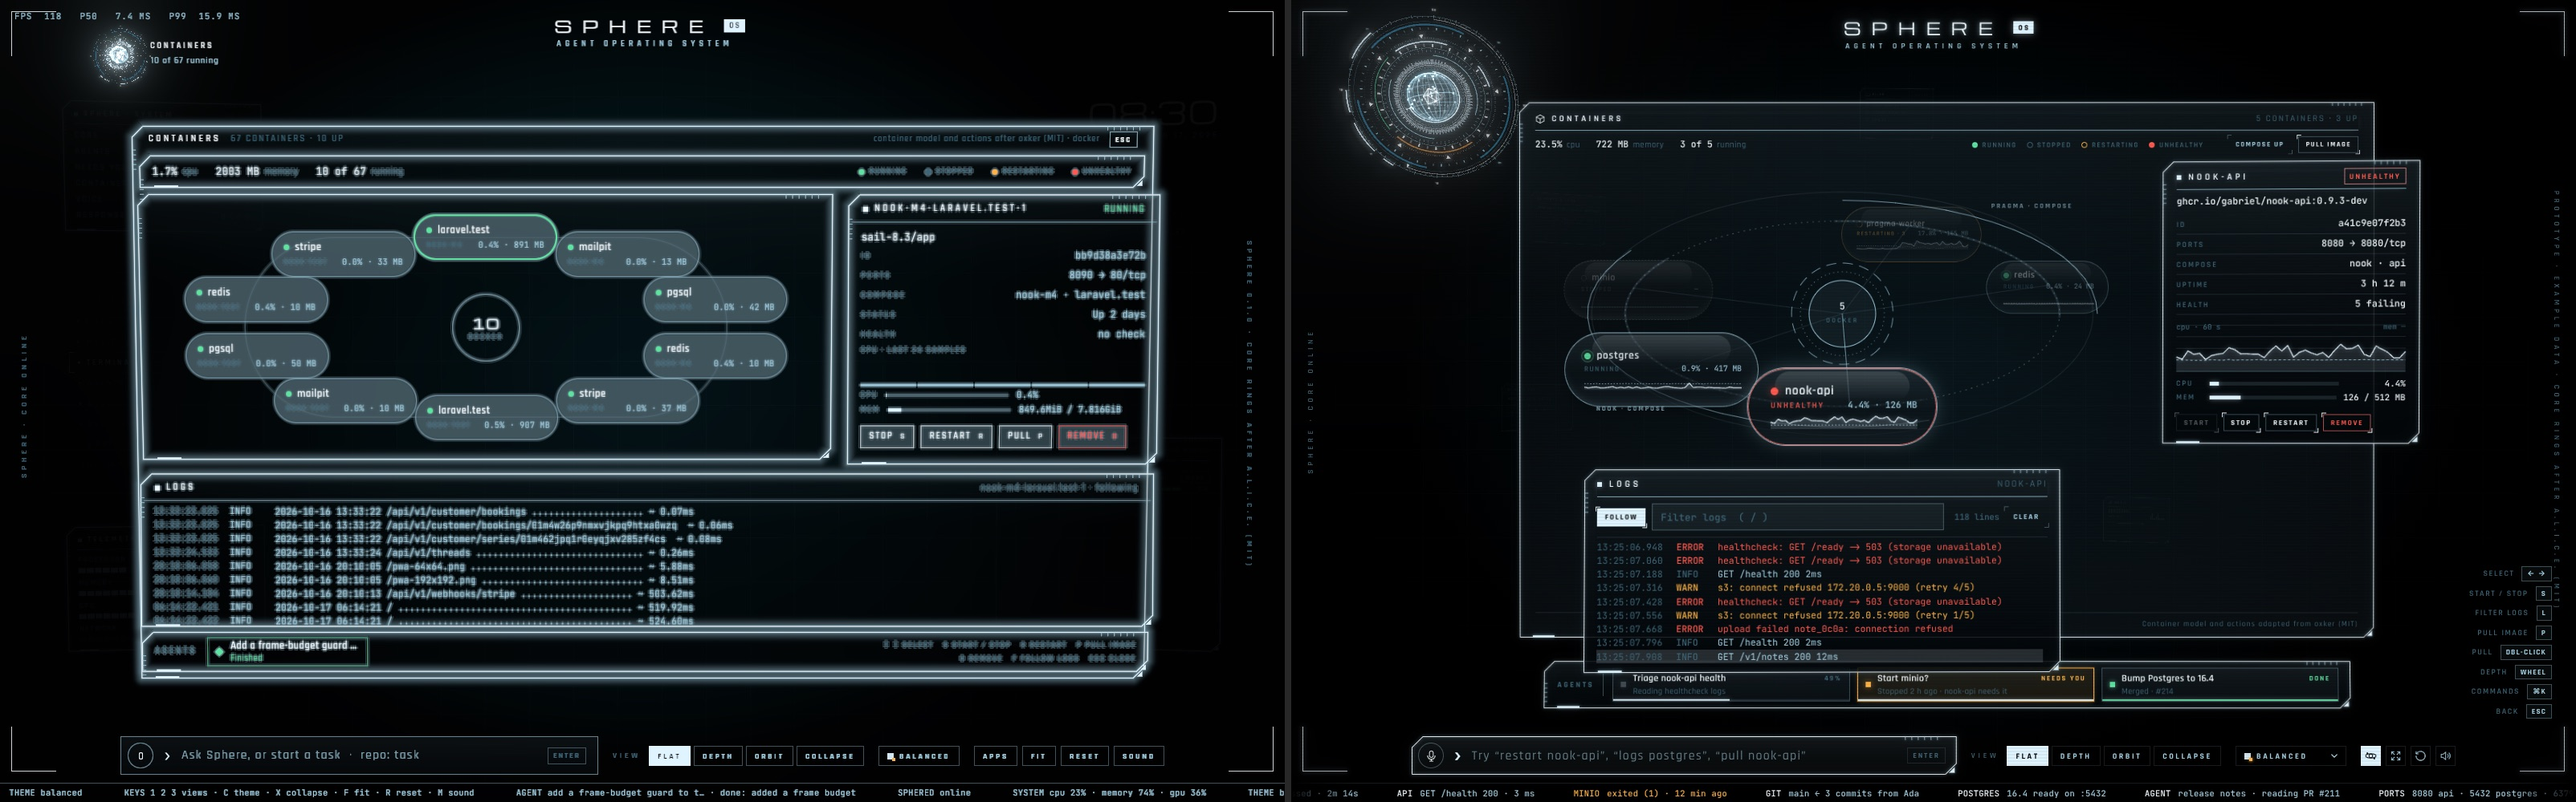
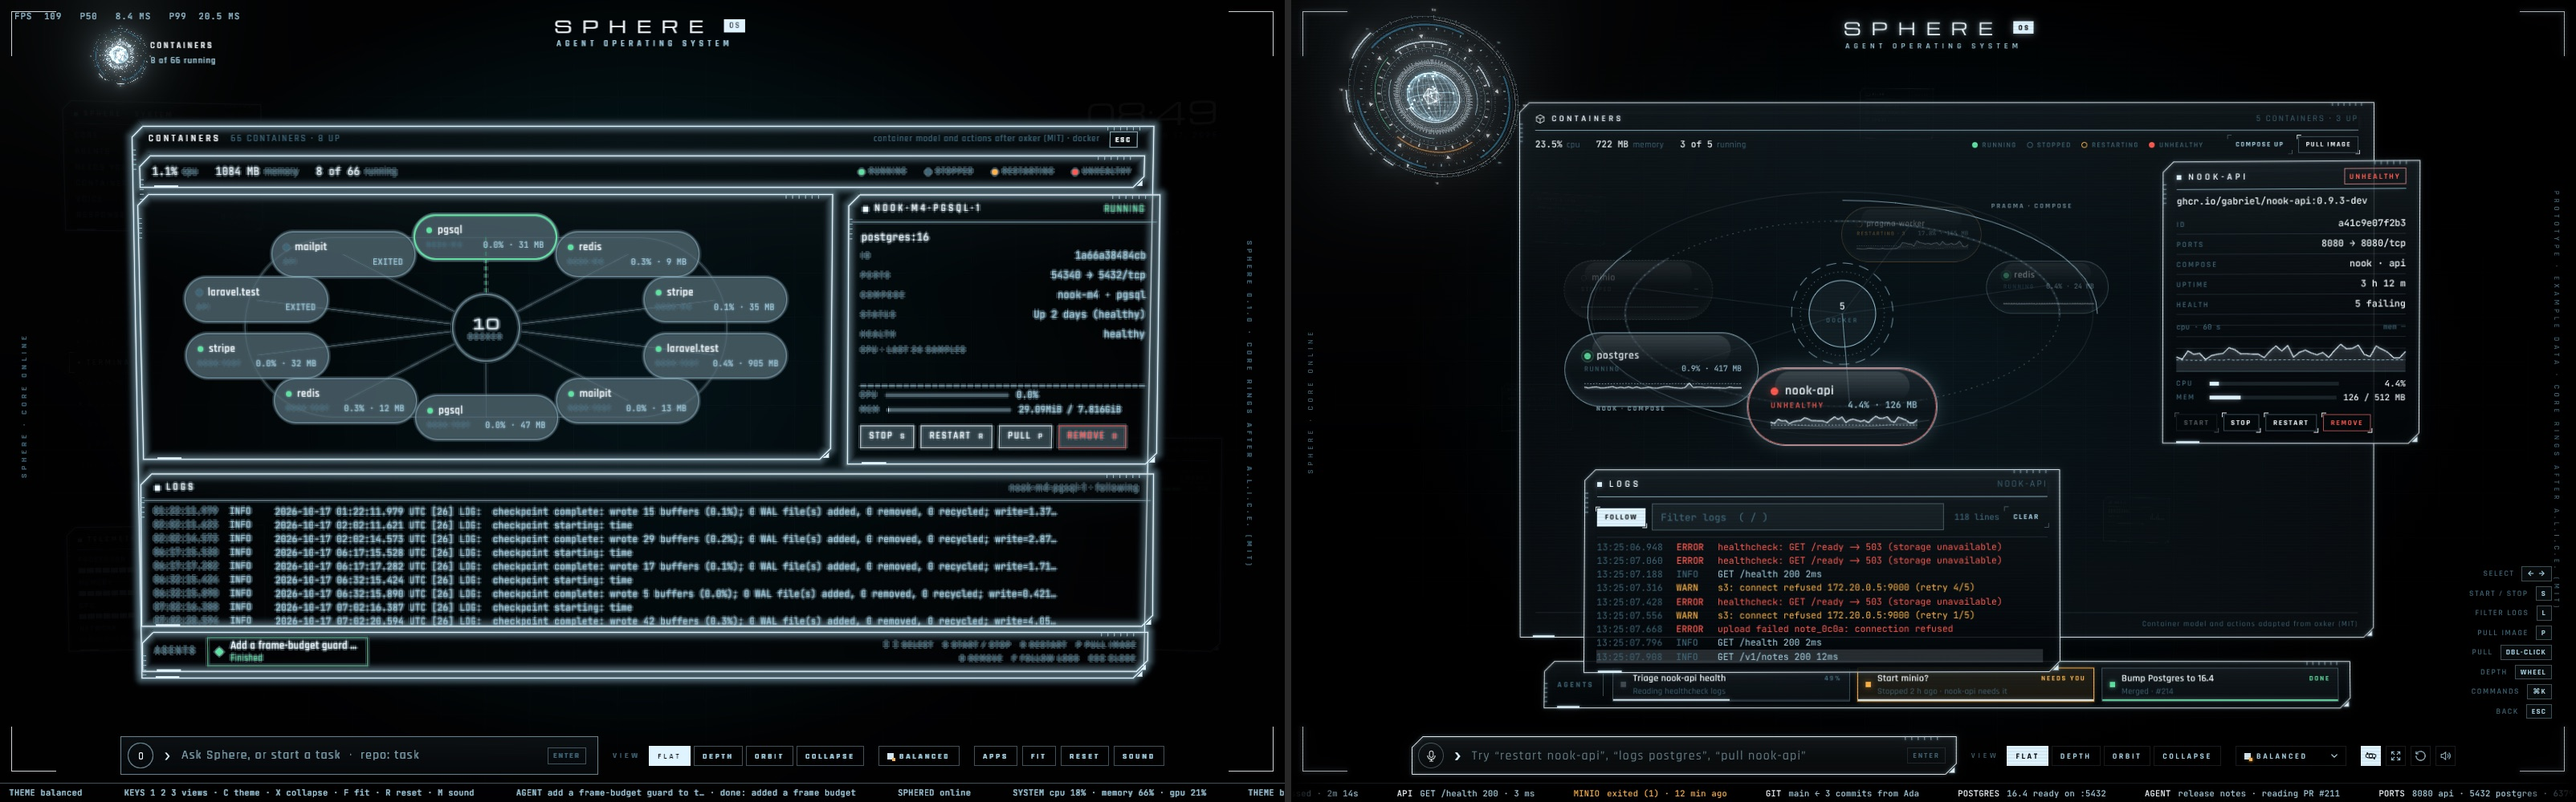
feat(sphere-app): connectors, per-core CPU and disk I/O
Containers and Ports & logs draw connectors from the hub to each container or
port, the selected one dashed and bright, like the prototypes. System shows a
spoke per core (P cores first, then E; from host_processor_info) round the
total, and disk read/write rates from the block storage statistics.

Claude-Session: https://claude.ai/code/session_013W6M3qyA81xjFbtoA3NYyj

diff --git a/crates/sphere-app/src/sysapp.rs b/crates/sphere-app/src/sysapp.rs
@@ -44,6 +44,13 @@ pub struct SysApp {
     gpu_h: Vec<f32>,
     in_h: Vec<f32>,
     out_h: Vec<f32>,
+    /// each core's use 0..1, from the last two tick readings
+    cores: Vec<f32>,
+    ticks_prev: Vec<(u64, u64)>,
+    /// disk bytes (read, written) last time, when, and the rates since
+    disk_prev: Option<((u64, u64), f32)>,
+    disk_rw: (f32, f32),
+    disk_h: Vec<f32>,
     net_prev: Option<((u64, u64), std::time::Instant)>,
     loading: bool,
     load_t: f32,
@@ -58,7 +65,7 @@ pub struct SysApp {
 impl Default for SysApp {
     fn default() -> Self {
         let (tx, rx) = mpsc::channel();
-        SysApp { open: false, amt: Spring::new(0.0, 26.0, 9.0), sys: None, cpu_h: Vec::new(), gpu_h: Vec::new(), in_h: Vec::new(), out_h: Vec::new(), net_prev: None, loading: false, load_t: -99.0, rx: None, sel: 0, by_mem: false, armed: None, notes: (tx, Mutex::new(rx)), version: 0 }
+        SysApp { open: false, amt: Spring::new(0.0, 26.0, 9.0), sys: None, cpu_h: Vec::new(), gpu_h: Vec::new(), in_h: Vec::new(), out_h: Vec::new(), cores: Vec::new(), ticks_prev: Vec::new(), disk_prev: None, disk_rw: (0.0, 0.0), disk_h: Vec::new(), net_prev: None, loading: false, load_t: -99.0, rx: None, sel: 0, by_mem: false, armed: None, notes: (tx, Mutex::new(rx)), version: 0 }
     }
 }
 
@@ -207,6 +214,17 @@ pub fn update(sim: Res<crate::core::Sim>, mut app: ResMut<SysApp>, mut ctl: ResM
         let had_net = app.net_prev.is_some();
         app.net_prev = prev;
         push(&mut app.cpu_h, s.cpu);
+        if !app.ticks_prev.is_empty() {
+            app.cores = crate::opsdata::core_use(&app.ticks_prev, &s.cores_ticks);
+        }
+        app.ticks_prev = s.cores_ticks.clone();
+        if let Some(((r0, w0), t0)) = app.disk_prev {
+            let dt = (sim.t - t0).max(0.5);
+            app.disk_rw = (s.disk_bytes.0.saturating_sub(r0) as f32 / dt, s.disk_bytes.1.saturating_sub(w0) as f32 / dt);
+            let rw = app.disk_rw.0 + app.disk_rw.1;
+            push(&mut app.disk_h, rw);
+        }
+        app.disk_prev = Some((s.disk_bytes, sim.t));
         push(&mut app.gpu_h, s.gpu);
         if had_net {
             push(&mut app.in_h, s.net_in);
@@ -277,21 +295,41 @@ pub fn draw(mut commands: Commands, app: Res<SysApp>, svc: Res<Service>, roots: 
     // processor
     let b = ui.body(c, ws.panes[CPU]);
     let h = ui.header(c, "Processor", &format!("{} P + {} E cores", s.cores.0, s.cores.1), ui.dim);
-    let inner = c.spawn(Node { flex_direction: FlexDirection::Column, row_gap: px(10), padding: UiRect { left: px(18), right: px(18), top: px(16), ..default() }, align_items: AlignItems::Center, ..default() }).id();
+    let inner = c.spawn(Node { flex_direction: FlexDirection::Column, row_gap: px(8), padding: UiRect { left: px(18), right: px(18), top: px(8), ..default() }, align_items: AlignItems::Center, ..default() }).id();
     c.entity(b).add_children(&[h, inner]);
+    // one spoke per core round the total, longer the busier (P cores first, then E)
+    let dial = c.spawn(Node { width: px(380), height: px(250), ..default() }).id();
+    let (cx, cy) = (190.0, 122.0);
+    let n = app.cores.len().max(1);
+    for (i, u) in app.cores.iter().enumerate() {
+        let a = std::f32::consts::TAU * i as f32 / n as f32 - std::f32::consts::FRAC_PI_2;
+        let dir = Vec2::new(a.cos(), a.sin());
+        let r0 = 66.0;
+        let col = if *u > 0.85 { role_color(Role::Bad) } else if *u > 0.5 { role_color(Role::Acc) } else { role_color(Role::Fill) };
+        ui.line(c, dial, Vec2::new(cx, cy) + dir * r0, Vec2::new(cx, cy) + dir * (r0 + 52.0), 3.0, with_alpha(ui.line, 0.12));
+        ui.line(c, dial, Vec2::new(cx, cy) + dir * r0, Vec2::new(cx, cy) + dir * (r0 + 4.0 + 48.0 * u), 3.0, col);
+        let lp = Vec2::new(cx, cy) + dir * 134.0;
+        let p = i < s.cores.0 as usize;
+        let k = if p { format!("P{i}") } else { format!("E{}", i - s.cores.0 as usize) };
+        let lab = c.spawn(Node { position_type: PositionType::Absolute, left: px(lp.x - 16.0), top: px(lp.y - 12.0), width: px(32), flex_direction: FlexDirection::Column, align_items: AlignItems::Center, ..default() }).id();
+        let l1 = ui.text(c, k, &f.ui600, 8.5, 1.0, ui.dim);
+        let l2 = ui.text(c, format!("{:.0}", u * 100.0), &f.mono, 10.0, 0.0, ui.line);
+        c.entity(lab).add_children(&[l1, l2]);
+        c.entity(dial).add_child(lab);
+    }
     let ring = c
         .spawn((
-            Node { width: px(170), height: px(170), border: UiRect::all(px(3)), border_radius: BorderRadius::MAX, flex_direction: FlexDirection::Column, align_items: AlignItems::Center, justify_content: JustifyContent::Center, ..default() },
+            Node { position_type: PositionType::Absolute, left: px(cx - 56.0), top: px(cy - 56.0), width: px(112), height: px(112), border: UiRect::all(px(2)), border_radius: BorderRadius::MAX, flex_direction: FlexDirection::Column, align_items: AlignItems::Center, justify_content: JustifyContent::Center, ..default() },
             BorderColor::all(with_alpha(if s.cpu > 0.85 { role_color(Role::Bad) } else { role_color(Role::Fill) }, 0.35 + 0.65 * s.cpu)),
         ))
         .id();
-    let pct = ui.text(c, format!("{:.0}%", s.cpu * 100.0), &f.display, 34.0, 0.5, ui.hot);
-    let cl = ui.text(c, "CPU", &f.ui600, 10.0, 2.4, ui.dim);
+    let pct = ui.text(c, format!("{:.0}%", s.cpu * 100.0), &f.display, 24.0, 0.5, ui.hot);
+    let cl = ui.text(c, "CPU", &f.ui600, 9.0, 2.4, ui.dim);
     c.entity(ring).add_children(&[pct, cl]);
+    c.entity(dial).add_child(ring);
     let la = ui.text(c, format!("load {:.2} · {:.2} · {:.2}", s.load[0], s.load[1], s.load[2]), &f.mono, 12.0, 0.0, ui.line);
-    let sp = ui.spark(c, &app.cpu_h, 70.0, role_color(Role::Fill));
-    let cap = ui.text(c, "LAST 80 SECONDS", &f.ui600, 9.5, 1.8, ui.dim);
-    c.entity(inner).add_children(&[ring, la, sp, cap]);
+    let sp = ui.spark(c, &app.cpu_h, 46.0, role_color(Role::Fill));
+    c.entity(inner).add_children(&[dial, la, sp]);
     // memory
     let b = ui.body(c, ws.panes[MEM]);
     // used the way Activity Monitor counts it: app, wired and compressed (cached files can be dropped)
@@ -338,11 +376,15 @@ pub fn draw(mut commands: Commands, app: Res<SysApp>, svc: Res<Service>, roots: 
     // disk and battery
     let b = ui.body(c, ws.panes[DISK]);
     let h = ui.header(c, "Disk · battery", "", ui.dim);
-    let inner = c.spawn(Node { flex_direction: FlexDirection::Column, row_gap: px(7), padding: UiRect { left: px(18), right: px(18), top: px(12), ..default() }, ..default() }).id();
+    let inner = c.spawn(Node { flex_direction: FlexDirection::Column, row_gap: px(5), padding: UiRect { left: px(18), right: px(18), top: px(10), ..default() }, ..default() }).id();
     c.entity(b).add_children(&[h, inner]);
     let dk = ui.kv(c, "macintosh hd", format!("{:.0} of {:.0} GB", s.disk.0, s.disk.1), ui.line);
     let db = ui.bar(c, s.disk.0 / s.disk.1.max(1.0), role_color(Role::Fill), 340.0);
-    c.entity(inner).add_children(&[dk, db]);
+    let io = ui.kv(c, "disk i/o", format!("read {} · write {}", rate(app.disk_rw.0), rate(app.disk_rw.1)), ui.line);
+    let peak = app.disk_h.iter().cloned().fold(1e6, f32::max);
+    let dh: Vec<f32> = app.disk_h.iter().map(|v| v / peak).collect();
+    let dsp = ui.spark(c, &dh, 22.0, ui.line);
+    c.entity(inner).add_children(&[dk, db, io, dsp]);
     match &s.battery {
         Some((pct, state, left)) => {
             let bk = ui.kv(c, "battery", format!("{pct}% · {state}"), ui.line);

diff --git a/crates/sphere-app/src/opsdata.rs b/crates/sphere-app/src/opsdata.rs
@@ -227,6 +227,51 @@ pub struct Sys {
     pub net_out: f32,
     pub battery: Option<(u32, String, String)>,
     pub procs: Vec<Proc>,
+    /// each core's ticks so far: (busy, total)
+    pub cores_ticks: Vec<(u64, u64)>,
+    /// bytes read and written by the disks so far
+    pub disk_bytes: (u64, u64),
+}
+
+/// Each core's busy and total CPU ticks since boot (`host_processor_info`).
+#[cfg(target_os = "macos")]
+pub fn core_ticks() -> Vec<(u64, u64)> {
+    let mut count: libc::natural_t = 0;
+    let mut info: libc::processor_info_array_t = std::ptr::null_mut();
+    let mut n: libc::mach_msg_type_number_t = 0;
+    #[allow(deprecated)]
+    let r = unsafe { libc::host_processor_info(libc::mach_host_self(), libc::PROCESSOR_CPU_LOAD_INFO, &mut count, &mut info, &mut n) };
+    if r != 0 || info.is_null() {
+        return Vec::new();
+    }
+    let per = libc::CPU_STATE_MAX as usize;
+    let mut out = Vec::with_capacity(count as usize);
+    for i in 0..count as usize {
+        let t = |k: i32| unsafe { *info.add(i * per + k as usize) } as u64;
+        let (user, sys, idle, nice) = (t(libc::CPU_STATE_USER), t(libc::CPU_STATE_SYSTEM), t(libc::CPU_STATE_IDLE), t(libc::CPU_STATE_NICE));
+        out.push((user + sys + nice, user + sys + nice + idle));
+    }
+    #[allow(deprecated)]
+    unsafe {
+        libc::vm_deallocate(libc::mach_task_self(), info as libc::vm_address_t, (n as usize * std::mem::size_of::<libc::integer_t>()) as libc::vm_size_t);
+    }
+    out
+}
+
+#[cfg(not(target_os = "macos"))]
+pub fn core_ticks() -> Vec<(u64, u64)> {
+    Vec::new()
+}
+
+/// `ioreg` block storage statistics: bytes read and written since boot, over all disks.
+pub fn parse_ioreg_disk(raw: &str) -> (u64, u64) {
+    let sum = |k: &str| raw.split(k).skip(1).filter_map(|r| r.trim_start_matches('=').split(|c: char| !c.is_ascii_digit()).next()?.parse::<u64>().ok()).sum::<u64>();
+    (sum("\"Bytes (Read)\""), sum("\"Bytes (Write)\""))
+}
+
+/// Per-core use 0..1 between two tick readings.
+pub fn core_use(prev: &[(u64, u64)], now: &[(u64, u64)]) -> Vec<f32> {
+    now.iter().zip(prev.iter()).map(|(n, p)| (n.0.saturating_sub(p.0)) as f32 / (n.1.saturating_sub(p.1)).max(1) as f32).collect()
 }
 
 fn sysctl(k: &str) -> String {
@@ -311,6 +356,8 @@ pub fn sample(prev_net: NetMark) -> (Sys, NetMark) {
         s.net_in = net.0.saturating_sub(i0) as f32 / dt;
         s.net_out = net.1.saturating_sub(o0) as f32 / dt;
     }
+    s.cores_ticks = core_ticks();
+    s.disk_bytes = parse_ioreg_disk(&run("ioreg", &["-c", "IOBlockStorageDriver", "-r", "-w0", "-d", "1"]).unwrap_or_default());
     let b = run("pmset", &["-g", "batt"]).unwrap_or_default();
     s.battery = b.lines().nth(1).and_then(|l| {
         let pct = l.split('\t').nth(1)?.split('%').next()?.trim().parse().ok()?;
@@ -329,6 +376,14 @@ mod tests {
         assert_eq!(parse_published("0.0.0.0:8090->80/tcp, [::]:8090->80/tcp, 0.0.0.0:5432->5432/tcp"), vec![(8090, "80/tcp".into()), (5432, "5432/tcp".into())]);
         let l = parse_lsof("p612\ncsphered\nn127.0.0.1:7878\np2210\ncadb\nn*:5037\nn[::1]:5037\n");
         assert_eq!(l.iter().map(|x| (x.port, x.pid, x.command.as_str())).collect::<Vec<_>>(), vec![(5037, 2210, "adb"), (7878, 612, "sphered")]);
+    }
+
+    #[test]
+    fn reads_disk_bytes_and_core_use() {
+        let raw = "\"Statistics\" = {\"Bytes (Read)\"=1000,\"Operations (Write)\"=4,\"Bytes (Write)\"=500}\n\"Statistics\" = {\"Bytes (Read)\"=24,\"Bytes (Write)\"=6}";
+        assert_eq!(parse_ioreg_disk(raw), (1024, 506));
+        assert_eq!(core_use(&[(10, 100), (0, 100)], &[(60, 200), (0, 200)]), vec![0.5, 0.0]);
+        assert!(!core_ticks().is_empty() || !cfg!(target_os = "macos"));
     }
 
     #[test]

diff --git a/crates/sphere-app/src/ports.rs b/crates/sphere-app/src/ports.rs
@@ -377,6 +377,22 @@ pub fn draw(mut commands: Commands, app: Res<PortsApp>, svc: Res<Service>, roots
 fn draw_map(c: &mut Commands, ui: &Ui, map: Entity, app: &PortsApp) {
     let shown = app.shown();
     let (cx, cy) = (430.0, 262.0);
+    let inner = shown.len().min(8);
+    let place = |i: usize| -> Vec2 {
+        let (k, m, rx, ry, off) = if i < inner { (i, inner, 220.0, 120.0, 0.0) } else { (i - inner, shown.len() - inner, 380.0, 220.0, 0.2) };
+        let a = std::f32::consts::TAU * k as f32 / m.max(1) as f32 - std::f32::consts::FRAC_PI_2 + off;
+        Vec2::new(cx + rx * a.cos(), cy + ry * a.sin())
+    };
+    // connectors from the hub (the selected port dashed and bright), under everything
+    for (i, l) in shown.iter().enumerate() {
+        let to = place(i);
+        let from = Vec2::new(cx, cy) + (to - Vec2::new(cx, cy)).normalize_or_zero() * 50.0;
+        if i == app.sel {
+            ui.dashed(c, map, from, to, 1.5, with_alpha(ui.hot, 0.9), 5.0, 4.0);
+        } else {
+            ui.line(c, map, from, to, 1.0, with_alpha(if l.container.is_some() { role_color(Role::Fill) } else { ui.line }, 0.2));
+        }
+    }
     let hub = c
         .spawn((
             Node { position_type: PositionType::Absolute, left: px(cx - 48.0), top: px(cy - 48.0), width: px(96), height: px(96), border: UiRect::all(px(1)), border_radius: BorderRadius::MAX, flex_direction: FlexDirection::Column, align_items: AlignItems::Center, justify_content: JustifyContent::Center, ..default() },
@@ -394,11 +410,8 @@ fn draw_map(c: &mut Commands, ui: &Ui, map: Entity, app: &PortsApp) {
     }
     c.entity(map).add_child(hub);
     // inner ring holds up to 8, the rest go outside
-    let inner = shown.len().min(8);
     for (i, l) in shown.iter().enumerate() {
-        let (k, m, rx, ry, off) = if i < inner { (i, inner, 220.0, 120.0, 0.0) } else { (i - inner, shown.len() - inner, 380.0, 220.0, 0.2) };
-        let a = std::f32::consts::TAU * k as f32 / m.max(1) as f32 - std::f32::consts::FRAC_PI_2 + off;
-        let (x, y) = (cx + rx * a.cos(), cy + ry * a.sin());
+        let Vec2 { x, y } = place(i);
         let sel = i == app.sel;
         let col = if l.container.is_some() { role_color(Role::Fill) } else { ui.line };
         let (w, h) = (92.0, 40.0);

diff --git a/crates/sphere-app/src/containers.rs b/crates/sphere-app/src/containers.rs
@@ -413,6 +413,18 @@ fn mib(s: &str) -> f32 {
 fn draw_map(c: &mut Commands, ui: &Ui, map: Entity, app: &ContainersApp) {
     let shown = app.shown();
     let (cx, cy, rx, ry) = (430.0, 165.0, 300.0, 112.0);
+    // connectors from the hub to each container (the selected one dashed and bright), under everything
+    let m = shown.len().max(1);
+    for (i, ct) in shown.iter().enumerate() {
+        let a = std::f32::consts::TAU * i as f32 / m as f32 - std::f32::consts::FRAC_PI_2;
+        let to = Vec2::new(cx + rx * a.cos(), cy + ry * a.sin());
+        let from = Vec2::new(cx, cy) + (to - Vec2::new(cx, cy)).normalize_or_zero() * 44.0;
+        if i == app.sel {
+            ui.dashed(c, map, from, to, 1.5, with_alpha(state_col(ct), 0.9), 5.0, 4.0);
+        } else {
+            ui.line(c, map, from, to, 1.0, with_alpha(ui.line, 0.22));
+        }
+    }
     // the hub
     let hub = c
         .spawn((
@@ -425,7 +437,6 @@ fn draw_map(c: &mut Commands, ui: &Ui, map: Entity, app: &ContainersApp) {
     c.entity(hub).add_children(&[n, d]);
     let ring = c.spawn((Node { position_type: PositionType::Absolute, left: px(cx - rx), top: px(cy - ry), width: px(rx * 2.0), height: px(ry * 2.0), border: UiRect::all(px(1)), border_radius: BorderRadius::MAX, ..default() }, BorderColor::all(with_alpha(ui.line, 0.16)))).id();
     c.entity(map).add_children(&[ring, hub]);
-    let m = shown.len().max(1);
     for (i, ct) in shown.iter().enumerate() {
         let a = std::f32::consts::TAU * i as f32 / m as f32 - std::f32::consts::FRAC_PI_2;
         let (x, y) = (cx + rx * a.cos(), cy + ry * a.sin());

diff --git a/crates/sphere-app/src/appframe.rs b/crates/sphere-app/src/appframe.rs
@@ -308,3 +308,31 @@ pub fn test_click(sim: Res<crate::core::Sim>, mut clicks: ResMut<PanelClicks>, q
         clicks.0.push((e, Vec2::new(f[2], f[3])));
     }
 }
+
+impl Ui<'_> {
+    /// A straight line from `a` to `b` (px in `parent`, which lays its children out absolutely).
+    pub fn line(&self, c: &mut Commands, parent: Entity, a: Vec2, b: Vec2, w: f32, col: Color) {
+        let d = b - a;
+        let len = d.length();
+        let mid = (a + b) / 2.0;
+        let e = c
+            .spawn((
+                Node { position_type: PositionType::Absolute, left: px(mid.x - len / 2.0), top: px(mid.y - w / 2.0), width: px(len), height: px(w), ..default() },
+                BackgroundColor(col),
+                UiTransform { rotation: Rot2::radians(d.y.atan2(d.x)), ..default() },
+            ))
+            .id();
+        c.entity(parent).add_child(e);
+    }
+    /// A dashed line: `dash` px on, `gap` px off.
+    pub fn dashed(&self, c: &mut Commands, parent: Entity, a: Vec2, b: Vec2, w: f32, col: Color, dash: f32, gap: f32) {
+        let len = (b - a).length();
+        let dir = (b - a) / len.max(1e-3);
+        let mut s = 0.0;
+        while s < len {
+            let e = (s + dash).min(len);
+            self.line(c, parent, a + dir * s, a + dir * e, w, col);
+            s += dash + gap;
+        }
+    }
+}
